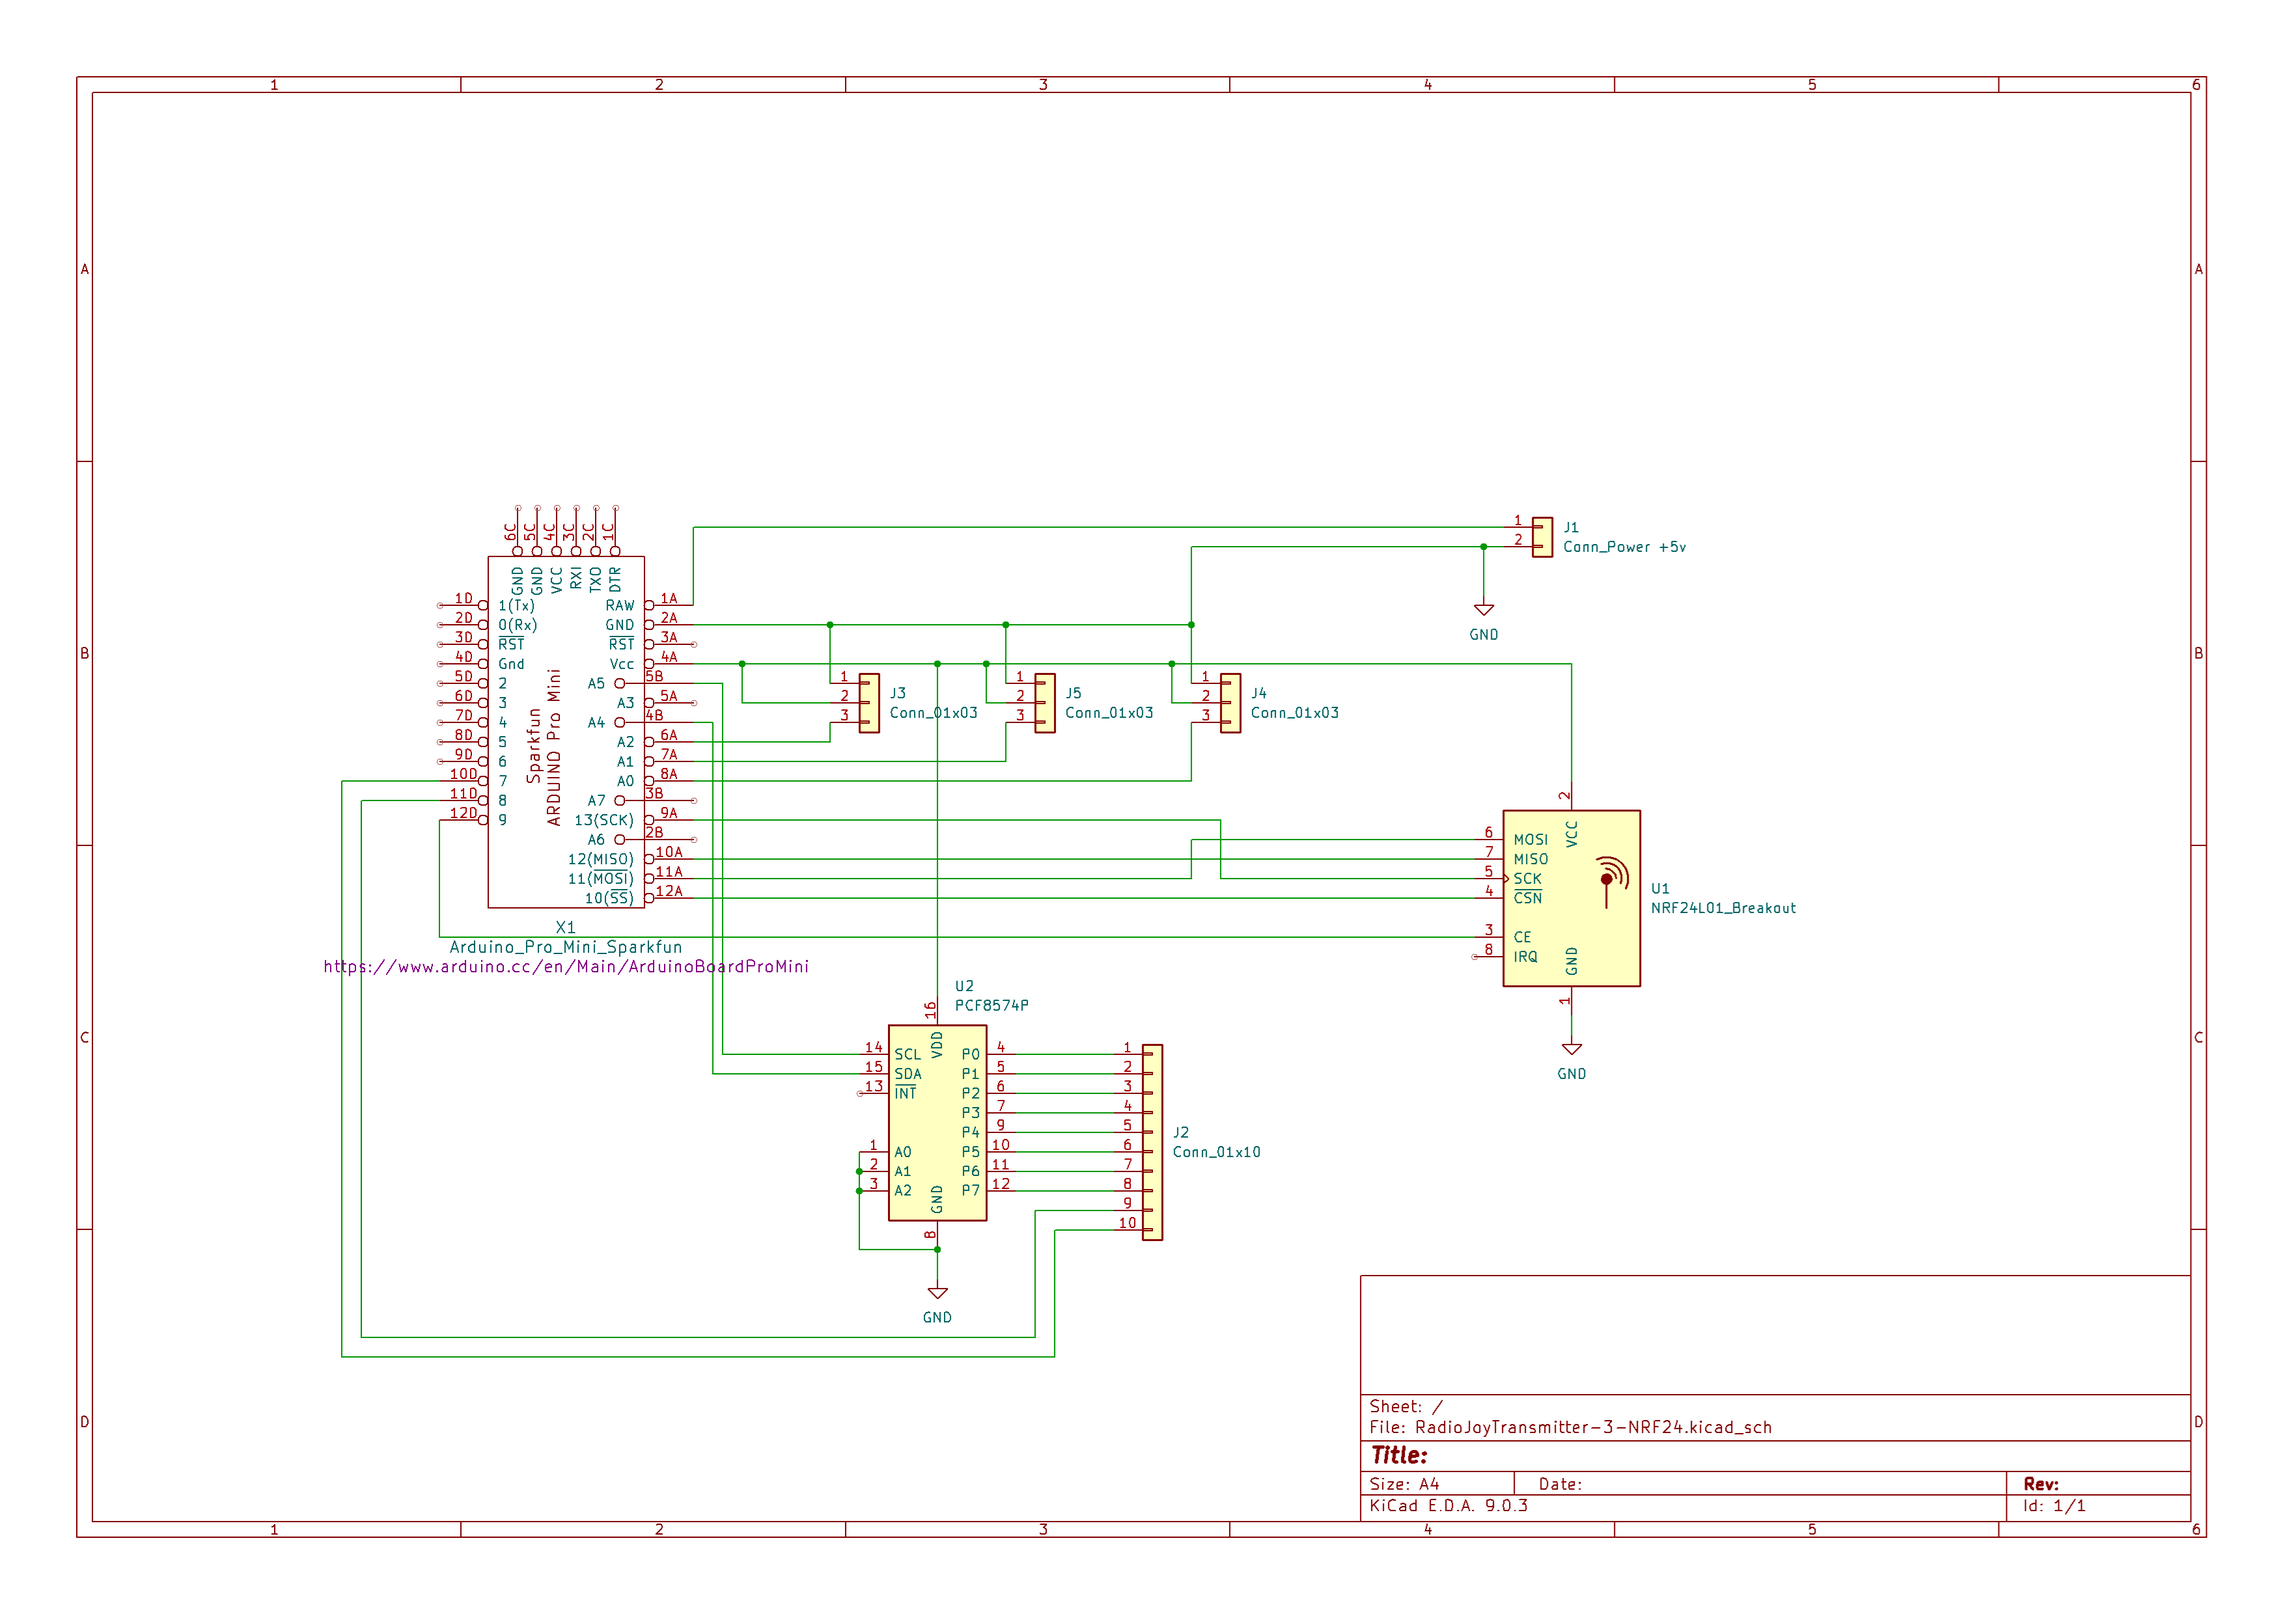
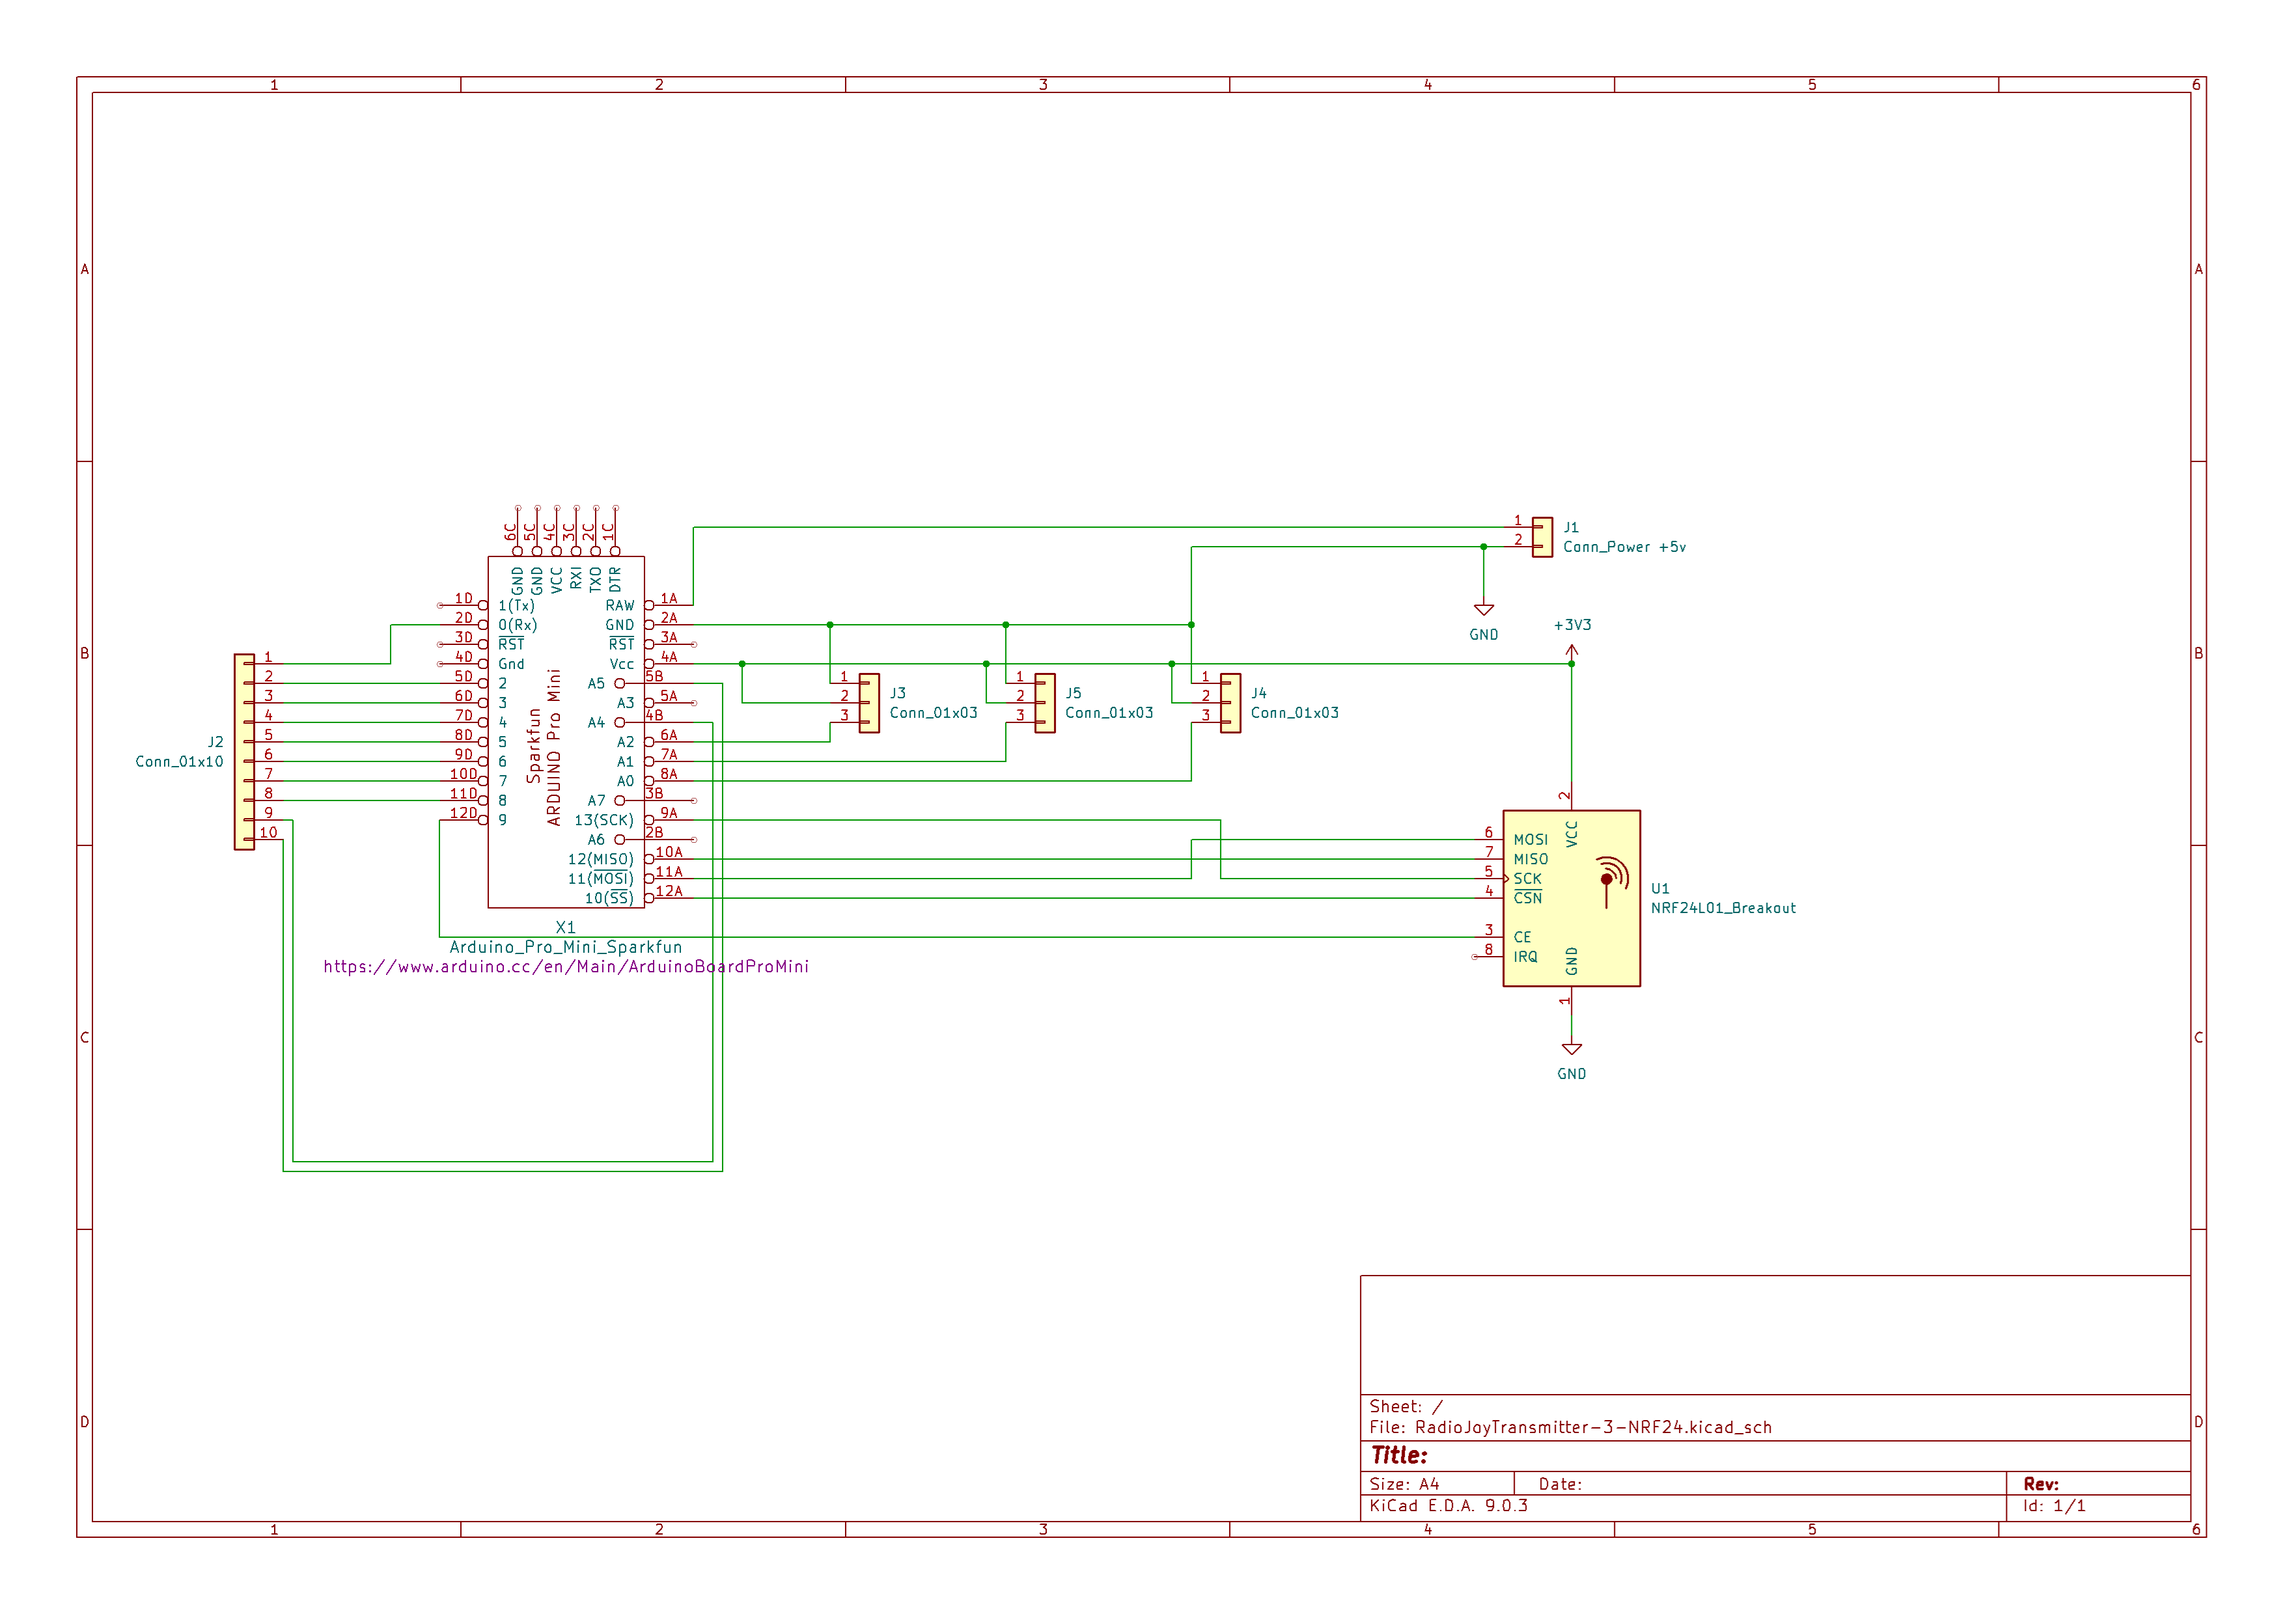
No PIO expander needed

Changed region(s): [[0.373, 0.621, 0.5284, 0.7762], [0.0932, 0.4036, 0.1243, 0.5278]]

diff --git a/RadioJoyTransmitter-3-NRF24/src/main.cpp b/RadioJoyTransmitter-3-NRF24/src/main.cpp
@@ -16,10 +16,12 @@
   #define DEBUG_BEGIN(x) Serial.begin(x)
   #define DEBUG_PRINTLN(x)  Serial.println(x)
   #define DEBUG_PRINT(x)  Serial.print(x)
+  #define DEBUG_PRINT_BIN(x)  Serial.print(x, BIN)
 #else
   #define DEBUG_BEGIN(x)
   #define DEBUG_PRINTLN(x)
   #define DEBUG_PRINT(x)
+  #define DEBUG_PRINT_BIN(x)
 #endif
 
 #define SIX_AXIS
@@ -52,12 +54,16 @@ void setup()
   // Start the radio listening for data
   radio.startListening();
 
-  pinMode(4,INPUT_PULLUP);
-  pinMode(5,INPUT_PULLUP);
-  pinMode(6,INPUT_PULLUP);
-  pinMode(7,INPUT_PULLUP);
-  pinMode(2,OUTPUT);
-  pinMode(3,OUTPUT);
+  pinMode(0, INPUT_PULLUP); // this is RXI, which is used in the Serial
+  pinMode(2, INPUT_PULLUP);
+  pinMode(3, INPUT_PULLUP);
+  pinMode(4, INPUT_PULLUP);
+  pinMode(5, INPUT_PULLUP);
+  pinMode(6, INPUT_PULLUP);
+  pinMode(7, INPUT_PULLUP);
+  pinMode(8, INPUT_PULLUP);
+  pinMode(A5, OUTPUT);
+  pinMode(A4, OUTPUT);
 
 }
 
@@ -92,7 +98,7 @@ void loop()
   joystick.axisY = 1023 - ((axisY + previousAxisY) >> 1); // low pass filter, axis inversion
   previousAxisY = axisY;
 
-  // joystick.buttons = scanButtons();
+  joystick.buttons = scanButtons();
 #else
   int16_t axisThrottle = analogRead(A0);
   joystick.axisThrottle = (axisThrottle + previousAxisThrottle) >> 1; // low pass filter
@@ -149,14 +155,14 @@ void loop()
         DEBUG_PRINTLN(F("failed"));
       }
     }else{
-//        Serial.println("request is not recognised");
+      // DEBUG_PRINTLN("request is not recognised");
     }
   }
 }
 
 struct Button {
   unsigned long startDebounce = 0;
-  int state = LOW; // the buttons should be normally closed (push to open)
+  int state = LOW; 
 };
 
 Button buttons[16];
@@ -165,40 +171,53 @@ const int DEBOUNCE = 10;
 int16_t scanButtons()
 {
   // scan the first row
-  digitalWrite(2, LOW);
+  digitalWrite(A4, LOW);
   delay(1);
-  checkButton(4, 0);
-  checkButton(5, 1);
-  checkButton(6, 2);
-  checkButton(7, 3);
-  digitalWrite(2, HIGH);
+  checkButton(0, 0);
+  checkButton(2, 1);
+  checkButton(3, 2);
+  checkButton(4, 3);
+  checkButton(5, 4);
+  checkButton(6, 5);
+  checkButton(7, 6);
+  checkButton(8, 7);
+  digitalWrite(A4, HIGH);
   
   // scan the second row
-  digitalWrite(3, LOW);
+  digitalWrite(A5, LOW);
   delay(1);
-  checkButton(4, 4);
-  checkButton(5, 5);
-  checkButton(6, 6);
-  checkButton(7, 7);
-  digitalWrite(3, HIGH);
+  checkButton(0, 8);
+  checkButton(2, 9);
+  checkButton(3, 10);
+  checkButton(4, 11);
+  checkButton(5, 12);
+  checkButton(6, 13);
+  checkButton(7, 14);
+  checkButton(8, 15);
+  digitalWrite(A5, HIGH);
 
   int16_t result = 0;
   int16_t currentBit;
   for(int i = 15; i >= 0; i--){
-    if(buttons[i].state == HIGH){ // the buttons should be normally closed (push to open)
-      currentBit = 1;
-    }else{
-      currentBit = 0;
+    if (i == 6 || i == 7 || i == 14 || i == 15) { // these are the normally closed buttons
+      if(buttons[i].state == HIGH){ // the normally closed buttons (push to break the connection)
+        currentBit = 0;
+      }else{
+        currentBit = 1;
+      }
+    } else {
+      if(buttons[i].state == HIGH){ // the rotary switches and normally open buttons
+        currentBit = 1;
+      }else{
+        currentBit = 0;
+      }
     }
     result = result | currentBit << i;
 
-    DEBUG_PRINT("button[");
-    DEBUG_PRINT(i);
-    DEBUG_PRINT("]=");
-    DEBUG_PRINT(buttons[i].state);
-    DEBUG_PRINT("  ");
+    DEBUG_PRINT("buttons: ");
+    DEBUG_PRINT_BIN(result);
+    DEBUG_PRINTLN(" ");
   }
-//  printBinaryUnsignedInt(result);
   return result;
 }
 
